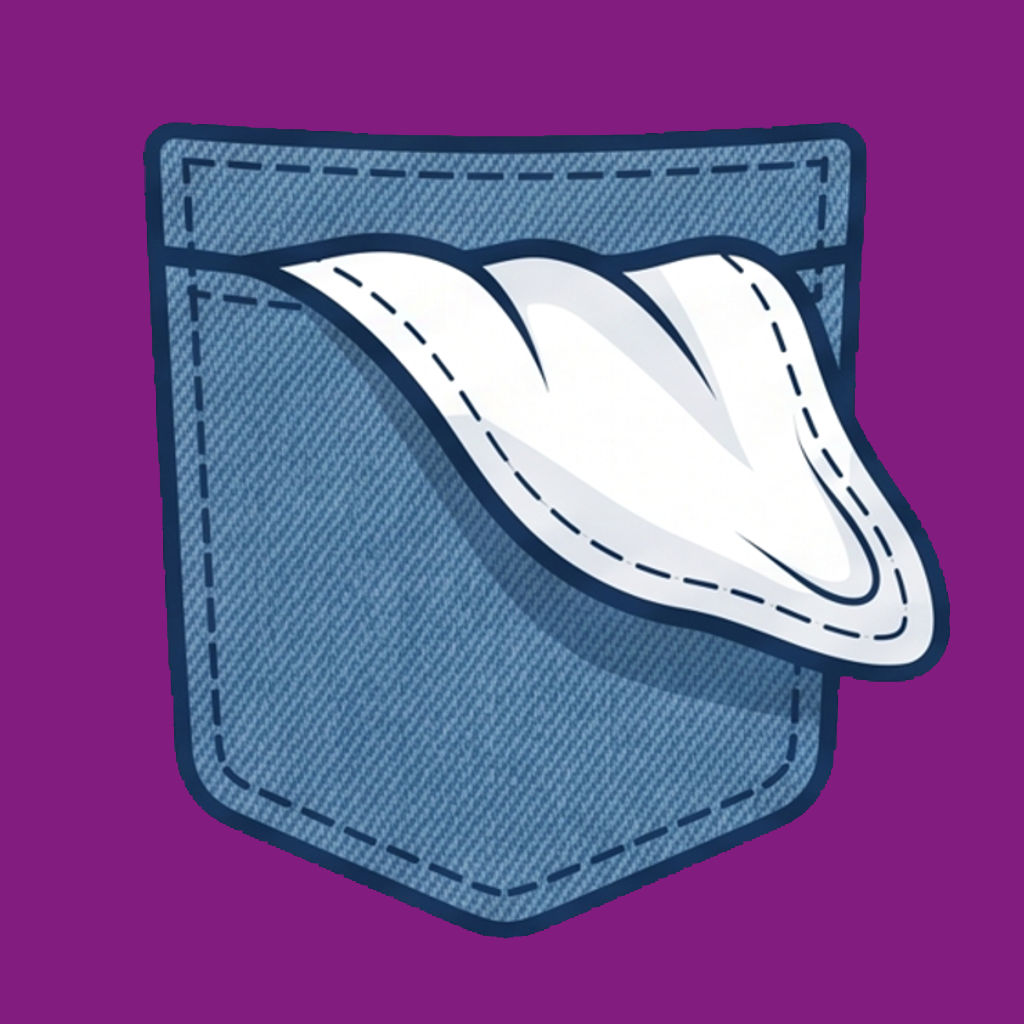
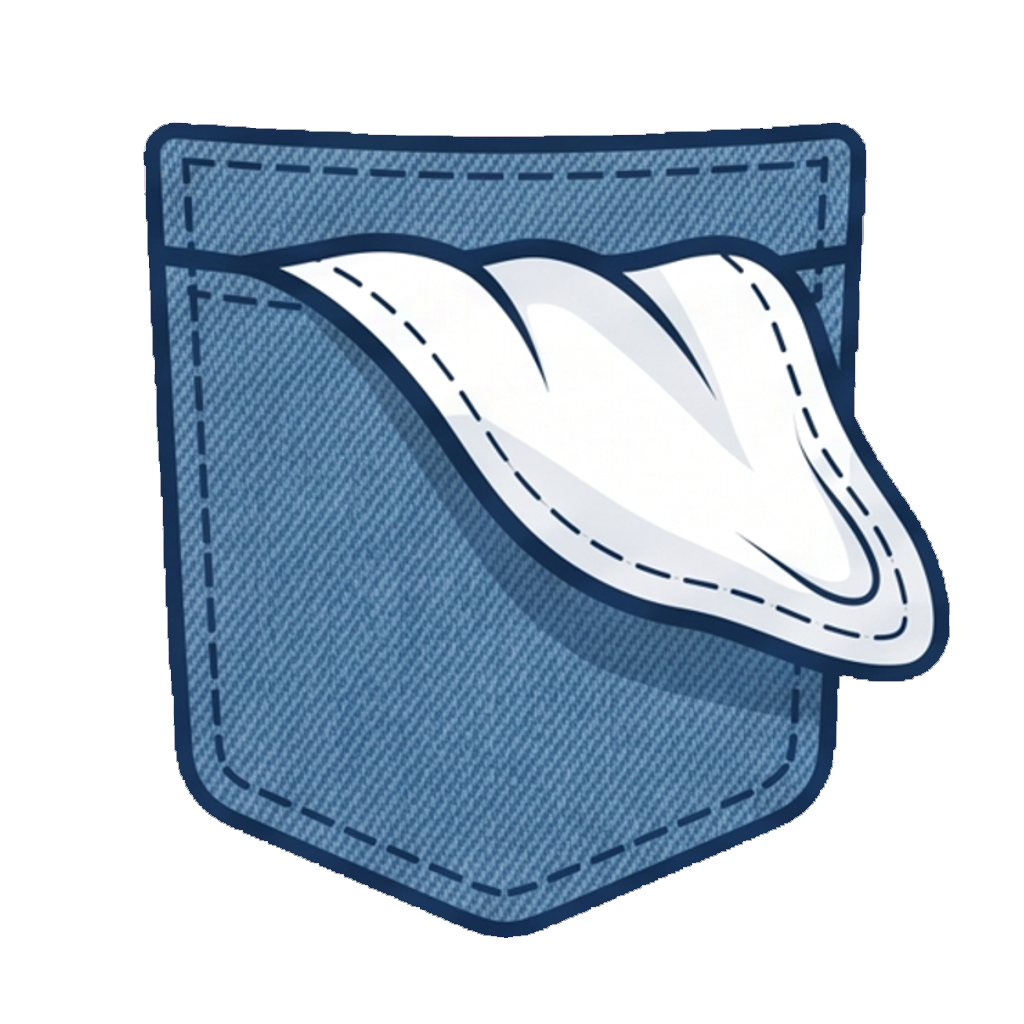
fix(mobile): bugs post-prueba interna (5 fixes)
- Sacar botón "Test Sentry" de configuración: ya verificamos que
  Sentry recibe eventos correctamente desde el cliente RN.
- Pro mismatch web/mobile: SubscriptionContext ahora hace OR entre
  el entitlement de RevenueCat y user_profiles.plan. Caso: usuarios
  grandfathered (manualmente upgradeados en la web) aparecían como
  Free en mobile porque RC no tiene su compra.
- api.ts: capturar exceptions en Sentry antes de re-throw del
  mensaje friendly. Antes los errores de red eran totalmente
  invisibles porque solo el .catch() del caller veía el Error
  envuelto. Ahora el error original (TypeError, TimeoutError, etc.)
  llega a Sentry con tags { source, endpoint, method }. Level
  'warning' para errores de red (comunes), 'error' para parse fails
  y 5xx. 4xx no se captura porque suelen ser respuestas de negocio
  (límites de plan, validación) que la UI maneja.
- Login usa logo.png (sin fondo) en lugar de icon.png (con fondo
  granate cuadrado). icon.png queda solo como icon de la app.
- nuevo-modal: KeyboardAvoidingView ahora usa behavior="padding"
  en AMBOS OS. El behavior=undefined en Android no funcionaba con
  transparentModal porque la window del modal es separada y no
  recibe el adjustResize del sistema. Padding empuja el sheet con
  animación al subir el teclado.

diff --git a/sinunmango-mobile/context/SubscriptionContext.tsx b/sinunmango-mobile/context/SubscriptionContext.tsx
@@ -139,19 +139,45 @@ export function SubscriptionProvider({ children }: { children: ReactNode }) {
     return () => subscription.unsubscribe()
   }, [safeConfigureRC])
 
-  // ── Cargar customer info + offerings ─────────────────────────────────────
+  // ── Cargar customer info + offerings + plan del user_profile ─────────────
+  // RC y user_profiles son dos fuentes de verdad:
+  //  - RC: entitlement activo en este device para subs reales con Play Billing.
+  //  - user_profiles.plan: lo escribe el webhook de RC pero también soporta
+  //    estados que RC no maneja (grandfathered, manual override).
+  //
+  // Antes mobile leía SOLO RC: si user_profile decía pro/grandfathered pero
+  // RC no tenía entitlement activo en este device (sub que vence el día,
+  // grandfathered, o SDK que no sincronizó), mobile mostraba Free mientras
+  // la web mostraba Pro. Ahora tomamos el OR de ambas fuentes.
   const loadData = useCallback(async () => {
     setState(s => ({ ...s, loading: true, errorMsg: null }))
     try {
-      const [customerInfo, offerings] = await Promise.all([
-        Purchases.getCustomerInfo(),
-        Purchases.getOfferings(),
+      const { data: { session } } = await supabase.auth.getSession()
+      const userId = session?.user?.id
+
+      const [customerInfo, offerings, profileRes] = await Promise.all([
+        Purchases.getCustomerInfo().catch(() => null),
+        Purchases.getOfferings().catch(() => null),
+        userId
+          ? supabase.from('user_profiles')
+              .select('plan, plan_expires_at')
+              .eq('user_id', userId)
+              .maybeSingle()
+          : Promise.resolve({ data: null }),
       ])
 
-      const hasPro = resolveHasPro(customerInfo)
-      const offering = offerings.current ?? null
+      const rcHasPro      = customerInfo ? resolveHasPro(customerInfo) : false
+      const offering      = offerings?.current ?? null
+      const profile       = profileRes.data as { plan: string | null; plan_expires_at: string | null } | null
+      const profilePlan   = profile?.plan ?? 'free'
+      const profileHasPro =
+        profilePlan === 'grandfathered' ||
+        (profilePlan === 'pro' && (!profile?.plan_expires_at || new Date(profile.plan_expires_at) > new Date()))
 
-      setState(s => ({ ...s, hasPro, plan: hasPro ? 'pro' : 'free', offering, loading: false }))
+      const hasPro = rcHasPro || profileHasPro
+      const plan   = profilePlan !== 'free' ? profilePlan : (rcHasPro ? 'pro' : 'free')
+
+      setState(s => ({ ...s, hasPro, plan, offering, loading: false }))
     } catch (err) {
       console.error('[SubscriptionContext] loadData error:', err)
       setState(s => ({ ...s, loading: false }))

diff --git a/sinunmango-mobile/lib/api.ts b/sinunmango-mobile/lib/api.ts
@@ -1,3 +1,4 @@
+import * as Sentry from '@sentry/react-native'
 import { supabase } from './supabase'
 import { getStoredSession } from './session-store'
 
@@ -50,10 +51,19 @@ async function apiFetch<T>(
       signal:  AbortSignal.timeout(timeoutMs),
     })
   } catch (err) {
+    // Capturamos antes de re-throw: el caller solo ve el mensaje friendly
+    // ("No pudimos conectar..."), pero Sentry necesita el error original
+    // (TypeError de network, TimeoutError, etc.) para diagnosticar.
+    // Nivel "warning" porque errores de red son comunes y no siempre indican
+    // un bug — pero nos sirve ver el volumen y patrones por endpoint.
+    Sentry.captureException(err, {
+      level: 'warning',
+      tags:  { source: 'apiFetch', endpoint: path, method },
+    })
     if (err instanceof Error && err.name === 'TimeoutError') {
-      throw new Error('La conexión tardó demasiado. Probá de nuevo.')
+      throw new Error('La conexión tardó demasiado. Probá de nuevo.', { cause: err })
     }
-    throw new Error('No pudimos conectar con el servidor. Verificá tu conexión.')
+    throw new Error('No pudimos conectar con el servidor. Verificá tu conexión.', { cause: err })
   }
 
   // Leemos como texto primero. Si el server respondió con HTML (Cloudflare
@@ -64,7 +74,12 @@ async function apiFetch<T>(
   if (text) {
     try {
       data = JSON.parse(text)
-    } catch {
+    } catch (parseErr) {
+      Sentry.captureException(parseErr, {
+        level: 'error',
+        tags:  { source: 'apiFetch', endpoint: path, method, status: String(res.status) },
+        extra: { bodySnippet: text.slice(0, 200) },
+      })
       if (!res.ok) throw new Error(`Error del servidor (${res.status})`)
       throw new Error('El servidor respondió con un formato inesperado.')
     }
@@ -72,6 +87,14 @@ async function apiFetch<T>(
 
   if (!res.ok) {
     const errMsg = (data as { error?: string } | null)?.error ?? `Error ${res.status}`
+    // 4xx/5xx con JSON parseable — capturamos solo los 5xx (los 4xx pueden
+    // ser limites de plan u otros que el caller debe manejar via UI).
+    if (res.status >= 500) {
+      Sentry.captureMessage(`API ${res.status} ${method} ${path}: ${errMsg}`, {
+        level: 'error',
+        tags:  { source: 'apiFetch', endpoint: path, method, status: String(res.status) },
+      })
+    }
     throw new Error(errMsg)
   }
   return data as T

diff --git a/sinunmango-mobile/app/(tabs)/configuracion.tsx b/sinunmango-mobile/app/(tabs)/configuracion.tsx
@@ -7,7 +7,6 @@ import { SafeAreaView } from 'react-native-safe-area-context'
 import { Ionicons } from '@expo/vector-icons'
 import { router } from 'expo-router'
 import Constants from 'expo-constants'
-import { Sentry } from '@/lib/sentry'
 import { supabase } from '@/lib/supabase'
 import { useTheme, ACCENTS, type AccentId, type ModeId } from '@/context/ThemeContext'
 import { useSubscription } from '@/context/SubscriptionContext'
@@ -193,27 +192,12 @@ export default function ConfiguracionScreen() {
             <Text style={[s.appRowValue, { color: theme.textMuted }]}>{APP_VERSION}</Text>
           </View>
           <TouchableOpacity
-            style={[s.appRow, { borderBottomColor: theme.border, borderBottomWidth: 1 }]}
+            style={s.appRow}
             onPress={() => Linking.openURL('https://app.sinunmango.com.ar')}
             activeOpacity={0.7}
           >
             <Text style={[s.appRowLabel, { color: theme.primary }]}>app.sinunmango.com.ar</Text>
             <Ionicons name="open-outline" size={14} color={theme.primary} />
-          </TouchableOpacity>
-          {/* TEMPORAL: botón para verificar que Sentry está capturando eventos.
-              Borrar después de confirmar que aparece la issue en el feed.
-              Solo en builds donde el DSN está configurado (Sentry queda no-op
-              en dev sin DSN). */}
-          <TouchableOpacity
-            style={s.appRow}
-            onPress={() => {
-              Sentry.captureException(new Error('[mobile] Sentry test from configuración — borrar el botón cuando aparezca'))
-              Alert.alert('Sentry test', 'Evento enviado. Verificá en sentry.io → Issues.')
-            }}
-            activeOpacity={0.7}
-          >
-            <Text style={[s.appRowLabel, { color: theme.textMuted }]}>Test Sentry</Text>
-            <Ionicons name="bug-outline" size={14} color={theme.textMuted} />
           </TouchableOpacity>
         </View>
 

diff --git a/sinunmango-mobile/app/nuevo-modal.tsx b/sinunmango-mobile/app/nuevo-modal.tsx
@@ -311,11 +311,14 @@ export default function NuevoModalScreen() {
       {/* Backdrop */}
       <TouchableOpacity style={s.backdrop} activeOpacity={1} onPress={() => router.back()} />
 
-      {/* Sheet — KeyboardAvoidingView solo para iOS (Android usa adjustResize
-          del sistema; behavior=undefined deja el wrapper transparente para
-          que no se duplique el padding del teclado). */}
+      {/* Sheet — KeyboardAvoidingView con behavior="padding" en AMBOS OS.
+          En transparentModal de Android, el adjustResize del sistema no
+          aplica al contenido del modal (la window del modal es separada
+          y no recibe el resize). Sin esto el teclado tapa el form.
+          padding agrega padding al wrapper igual a la altura del teclado,
+          empujando el sheet hacia arriba con la animación. */}
       <KeyboardAvoidingView
-        behavior={Platform.OS === 'ios' ? 'padding' : undefined}
+        behavior="padding"
         style={s.kav}
         keyboardVerticalOffset={0}
       >

diff --git a/sinunmango-mobile/app/(auth)/login.tsx b/sinunmango-mobile/app/(auth)/login.tsx
@@ -77,7 +77,7 @@ export default function LoginScreen() {
       <View style={styles.hero}>
         <View style={styles.logoContainer}>
           <Image
-            source={require('@/assets/icon.png')}
+            source={require('@/assets/logo.png')}
             style={styles.logo}
             resizeMode="contain"
           />